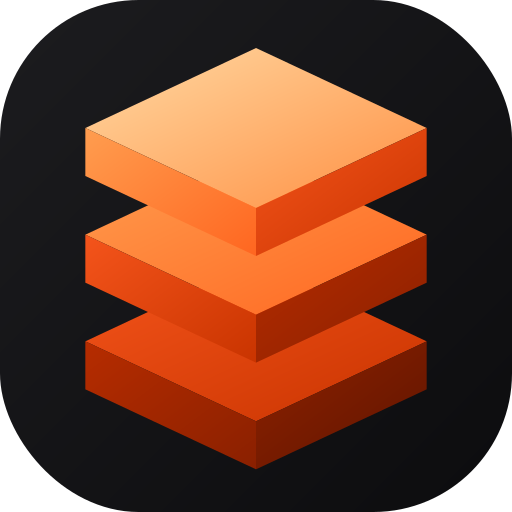
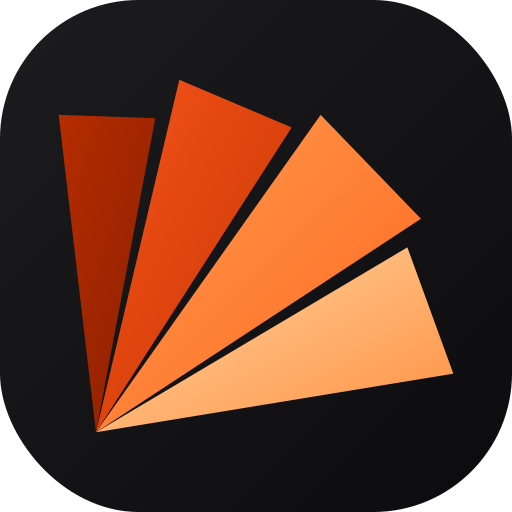
Adopt the new fan mark
Same computed geometry as the landing's components/ui/mark.tsx, copied
verbatim so the two sites cannot drift.

diff --git a/components/logo.tsx b/components/logo.tsx
@@ -1,43 +1,53 @@
 import Link from "next/link";
 
-// The Ripar mark — three slabs in isometric: the execution layer, stated
-// literally. Single source for the navbar, the footer and app/icon.svg.
+// The Ripar mark — a fan of four blades opening from a single pivot.
+// Single source for the navbar, the footer and app/icon.svg.
 //
-// Geometry is generated rather than hand-drawn so the stack stays centred in
-// the 48 box and inside the circle that social avatars get cropped to.
-const HW = 16; // half-width of a slab's top face
-const HH = 7.5; // half-height of it
-const D = 4.5; // slab depth
-const CYS = [12, 22, 32] as const; // slab centres, top to bottom
-
-/** One slab: the lit top face plus its two visible sides. */
-function Slab({ cy, top, left, right }: { cy: number; top: string; left: string; right: string }) {
-  return (
-    <>
-      <path d={`M24 ${cy - HH} L${24 + HW} ${cy} L24 ${cy + HH} L${24 - HW} ${cy} Z`} fill={top} />
-      <path
-        d={`M${24 - HW} ${cy} L${24 - HW} ${cy + D} L24 ${cy + HH + D} L24 ${cy + HH} Z`}
-        fill={left}
-      />
-      <path
-        d={`M${24 + HW} ${cy} L${24 + HW} ${cy + D} L24 ${cy + HH + D} L24 ${cy + HH} Z`}
-        fill={right}
-      />
-    </>
-  );
-}
+// Deliberately NOT a radial burst: it spans ~90° rather than 360°, the pivot
+// sits off-centre instead of in the middle, the blade widths are uneven, and
+// there is no dot at the centre. Radially symmetric marks with a centre dot
+// are the single most crowded shape in AI branding right now, and this has to
+// not read as one of them.
+const BOUNDS = [8, 32, 56, 78, 98]; // blade edges in degrees, uneven on purpose
+const RADII = [34, 36.5, 34, 30]; // varied so the outer edge is cut, not arced
+const GAP = 2.6; // degrees of air between blades
+const TONES = ["hi", "lt", "md", "dk"] as const;
 
 const STOPS: [string, string, string][] = [
   ["hi", "#ffd9a3", "#ff8f42"],
   ["lt", "#ff9d4f", "#ff6620"],
   ["md", "#f4541b", "#c93400"],
   ["dk", "#b62c00", "#8a2000"],
-  ["dk2", "#8f2200", "#5e1400"],
 ];
 
+/** Blade triangles, then fitted into the 48 box so the fan sits centred and
+ *  stays inside the circle that social avatars get cropped to. */
+const BLADES = (() => {
+  const rad = (d: number) => (d * Math.PI) / 180;
+  const tris = RADII.map((r, i) => {
+    const [a0, a1] = [BOUNDS[i] + GAP / 2, BOUNDS[i + 1] - GAP / 2];
+    return [
+      [0, 0],
+      [r * Math.cos(rad(a0)), -r * Math.sin(rad(a0))],
+      [r * Math.cos(rad(a1)), -r * Math.sin(rad(a1))],
+    ] as [number, number][];
+  });
+
+  const xs = tris.flat().map((p) => p[0]);
+  const ys = tris.flat().map((p) => p[1]);
+  const [minX, minY] = [Math.min(...xs), Math.min(...ys)];
+  const [w, h] = [Math.max(...xs) - minX, Math.max(...ys) - minY];
+  const s = 37 / Math.max(w, h);
+  const ox = 24 - (minX + w / 2) * s;
+  const oy = 24 - (minY + h / 2) * s;
+  const fit = ([x, y]: [number, number]) =>
+    `${+(x * s + ox).toFixed(2)} ${+(y * s + oy).toFixed(2)}`;
+
+  return tris.map((t) => `M${fit(t[0])} L${fit(t[1])} L${fit(t[2])} Z`);
+})();
+
 export function Mark({ size = 26, className }: { size?: number; className?: string }) {
-  const p = "ripar-mono";
-  const g = (k: string) => `url(#${p}-${k})`;
+  const p = "ripar-fan";
   return (
     <svg width={size} height={size} viewBox="0 0 48 48" className={className} aria-hidden>
       <defs>
@@ -48,10 +58,9 @@ export function Mark({ size = 26, className }: { size?: number; className?: stri
           </linearGradient>
         ))}
       </defs>
-      {/* painted bottom-up so the upper slabs overlap the ones beneath */}
-      <Slab cy={CYS[2]} top={g("md")} left={g("dk")} right={g("dk2")} />
-      <Slab cy={CYS[1]} top={g("lt")} left={g("md")} right={g("dk")} />
-      <Slab cy={CYS[0]} top={g("hi")} left={g("lt")} right={g("md")} />
+      {BLADES.map((d, i) => (
+        <path key={i} d={d} fill={`url(#${p}-${TONES[i]})`} />
+      ))}
     </svg>
   );
 }
